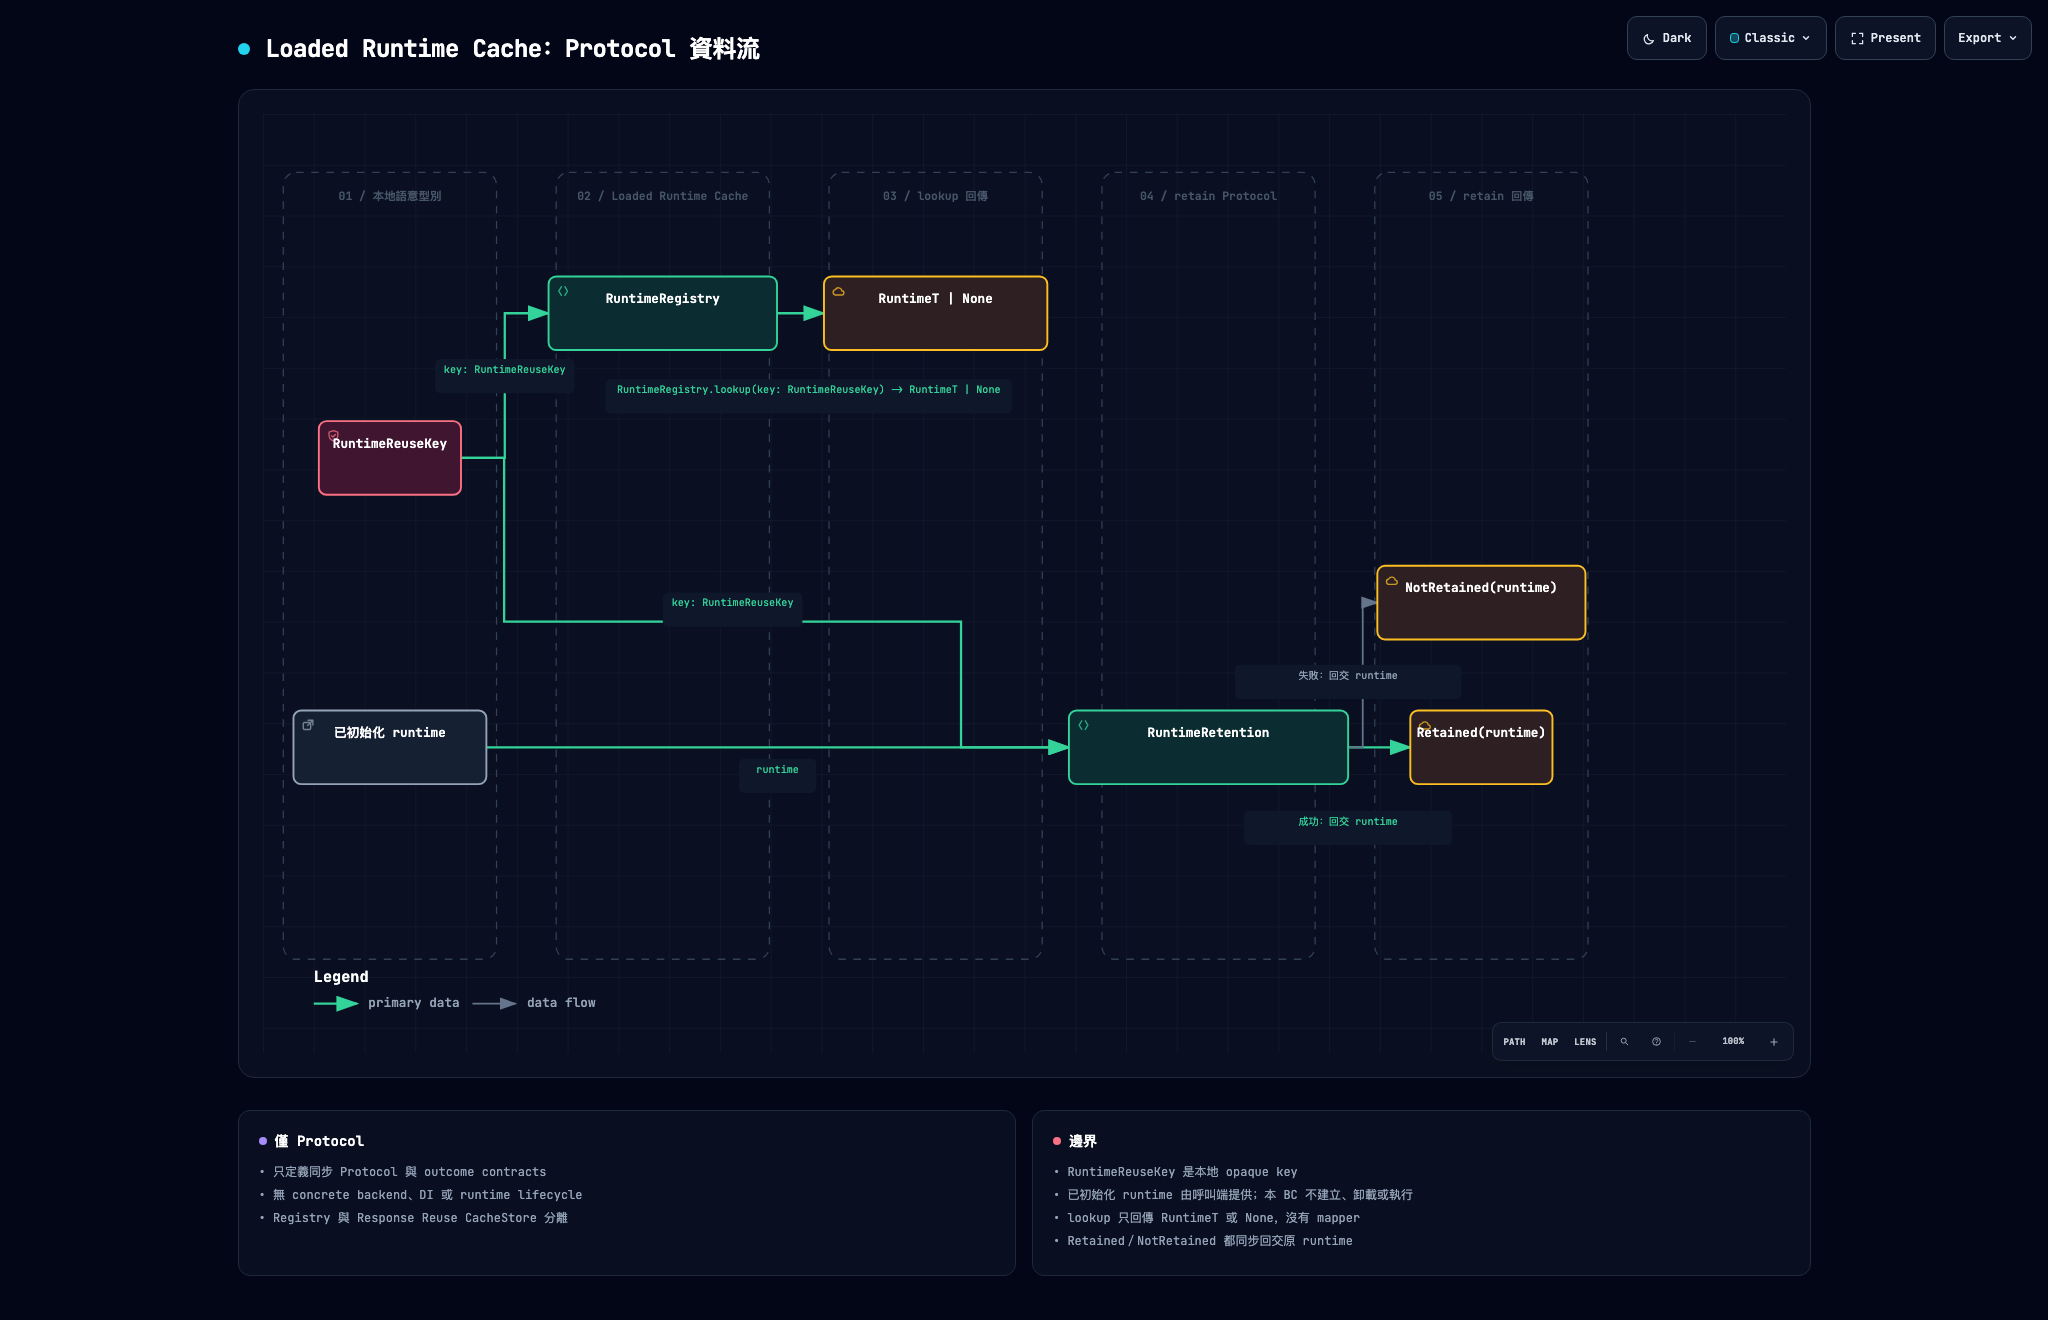
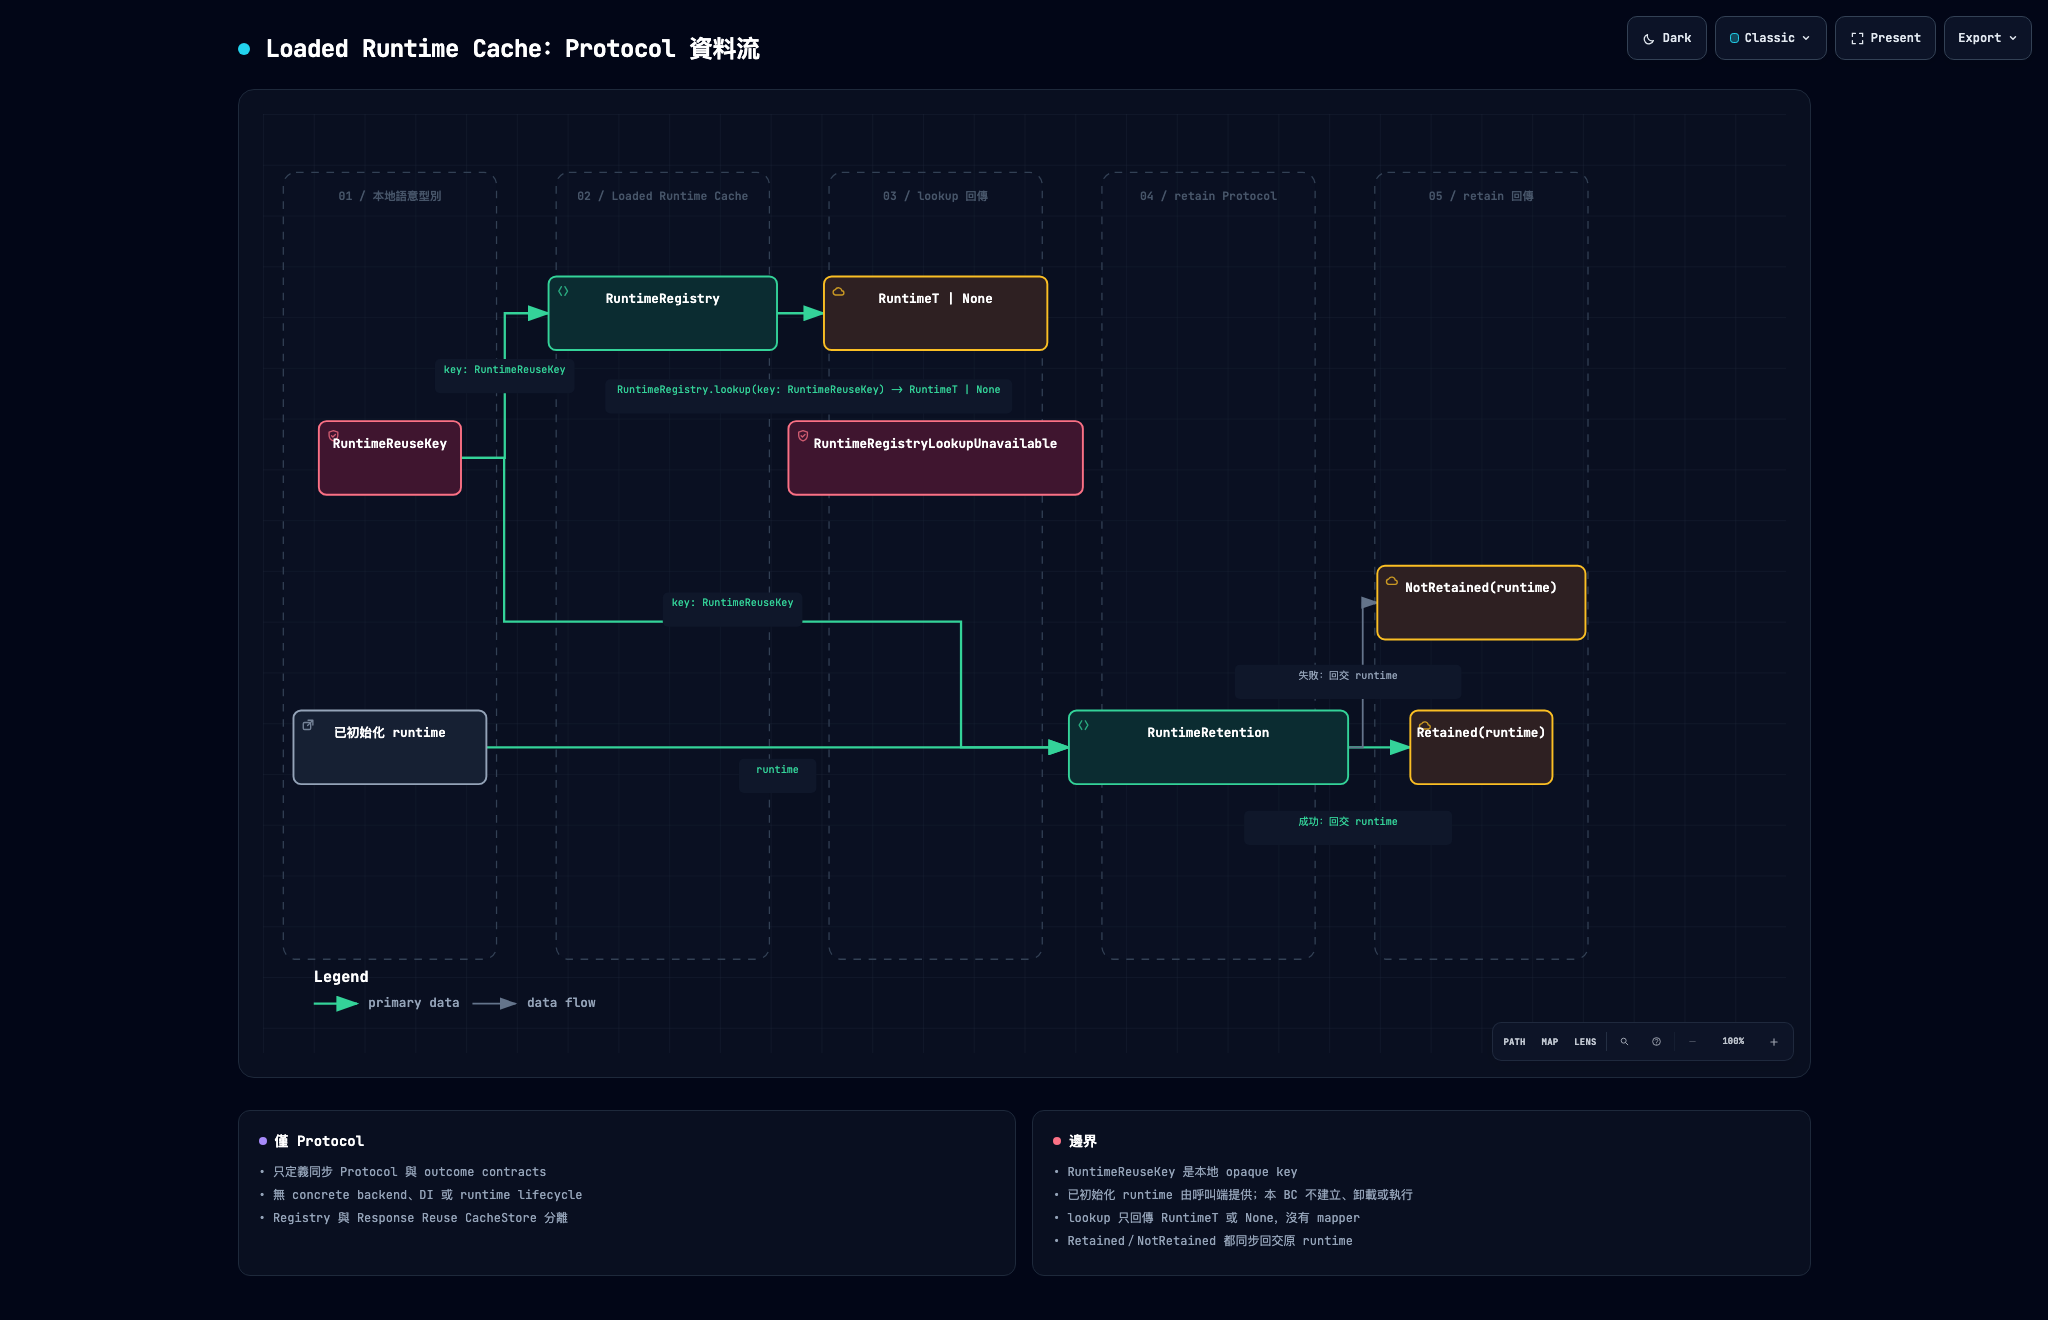
fix(loaded-runtime-cache): remediate C20 boundary findings

Changed region(s): [[0.375, 0.3106, 0.5312, 0.3727]]

diff --git a/docs/architecture/loaded-runtime-cache/loaded-runtime-cache.dataflow.html b/docs/architecture/loaded-runtime-cache/loaded-runtime-cache.dataflow.html
@@ -5093,6 +5093,18 @@
         <text data-detail="fine" x="530" y="175" class="t-cloud" font-size="7" text-anchor="middle">lookup union return</text>
         </g>
 
+        <g id="node-lookup-unavailable" data-node-id="lookup-unavailable" data-node-label="RuntimeRegistryLookupUnavailable" tabindex="0" role="button" aria-label="Focus RuntimeRegistryLookupUnavailable, 03 / lookup 回傳" aria-pressed="false" data-node-kind="security" data-node-tag="預期 lookup failure signal" data-node-context="03 / lookup 回傳">
+          <title>RuntimeRegistryLookupUnavailable · 03 / lookup 回傳 · 預期 lookup failure signal</title>
+          <rect x="414" y="242" width="232" height="58" rx="6" class="c-mask"/>
+          <rect x="414" y="242" width="232" height="58" rx="6" class="c-security" stroke-width="1.5"/>
+          <g aria-hidden="true" data-semantic-sigil="security" class="semantic-sigil s-security" transform="translate(420 248) scale(0.6875)">
+            <path d="M8 2.2 13 4v3.5c0 3.1-1.8 5.4-5 6.5-3.2-1.1-5-3.4-5-6.5V4Z"/>
+            <path d="m5.8 8 1.5 1.5 3-3"/>
+          </g>
+          <text data-node-label="" x="530" y="263" class="t-primary" font-size="10" font-weight="600" text-anchor="middle">RuntimeRegistryLookupUnavailable</text>
+        <text data-detail="fine" x="530" y="289" class="t-security" font-size="7" text-anchor="middle">預期 lookup failure signal</text>
+        </g>
+
         <g id="node-runtime-retention" data-node-id="runtime-retention" data-node-label="RuntimeRetention" tabindex="0" role="button" aria-label="Focus RuntimeRetention, 04 / retain Protocol" aria-pressed="false" data-node-kind="backend" data-node-tag="Loaded Runtime Cache protocol（contract only）" data-node-context="04 / retain Protocol">
           <title>RuntimeRetention · 04 / retain Protocol · Loaded Runtime Cache protocol（contract only）</title>
           <rect x="635" y="470" width="220" height="58" rx="6" class="c-mask"/>

diff --git a/tests/test_loaded_runtime_cache_bc_independence.py b/tests/test_loaded_runtime_cache_bc_independence.py
@@ -284,7 +284,7 @@ def _is_module_cache_access(
 
 
 def _declares_forbidden_semantic_type(source_directory: Path, type_name: str) -> bool:
-    """Detect a local nominal or type-alias declaration of the foreign BC semantic type."""
+    """Detect local declarations or Identity imports of a foreign semantic type."""
     for source_path in source_directory.rglob("*.py"):
         tree = ast.parse(source_path.read_text(encoding="utf-8"), filename=str(source_path))
         for statement in ast.walk(tree):
@@ -292,12 +292,25 @@ def _declares_forbidden_semantic_type(source_directory: Path, type_name: str) ->
                 return True
             if isinstance(statement, ast.TypeAlias) and statement.name.id == type_name:
                 return True
+            if _imports_identity_semantic_type(statement, type_name):
+                return True
             if isinstance(statement, (ast.Assign, ast.AnnAssign)) and _assignment_names(
                 statement,
                 type_name,
             ):
                 return True
     return False
+
+
+def _imports_identity_semantic_type(statement: ast.AST, type_name: str) -> bool:
+    """Return whether an Identity-BC ImportFrom imports the semantic source name."""
+    return (
+        isinstance(statement, ast.ImportFrom)
+        and type_name == "ModelIdentity"
+        and statement.module is not None
+        and (statement.module == _IDENTITY_BC or statement.module.startswith(f"{_IDENTITY_BC}."))
+        and any(alias.name == type_name for alias in statement.names)
+    )
 
 
 def _assignment_names(statement: ast.Assign | ast.AnnAssign, name: str) -> bool:
@@ -497,7 +510,15 @@ def test_dataflow_declares_lookup_unavailable_as_independent_signal() -> None:
         edge["label"] == "RuntimeRegistry.lookup(key: RuntimeReuseKey) -> RuntimeT | None"
         for edge in dataflow["flows"]
     )
-    assert any(node["label"] == "RuntimeRegistryLookupUnavailable" for node in dataflow["nodes"])
+    unavailable_signal = next(
+        node for node in dataflow["nodes"] if node["label"] == "RuntimeRegistryLookupUnavailable"
+    )
+
+    assert not any(
+        edge[endpoint] == unavailable_signal["id"]
+        for edge in dataflow["flows"]
+        for endpoint in ("from", "to")
+    )
 
 
 def test_bc_independence_accepts_current_sources_only_when_no_boundary_bypass_exists() -> None:
